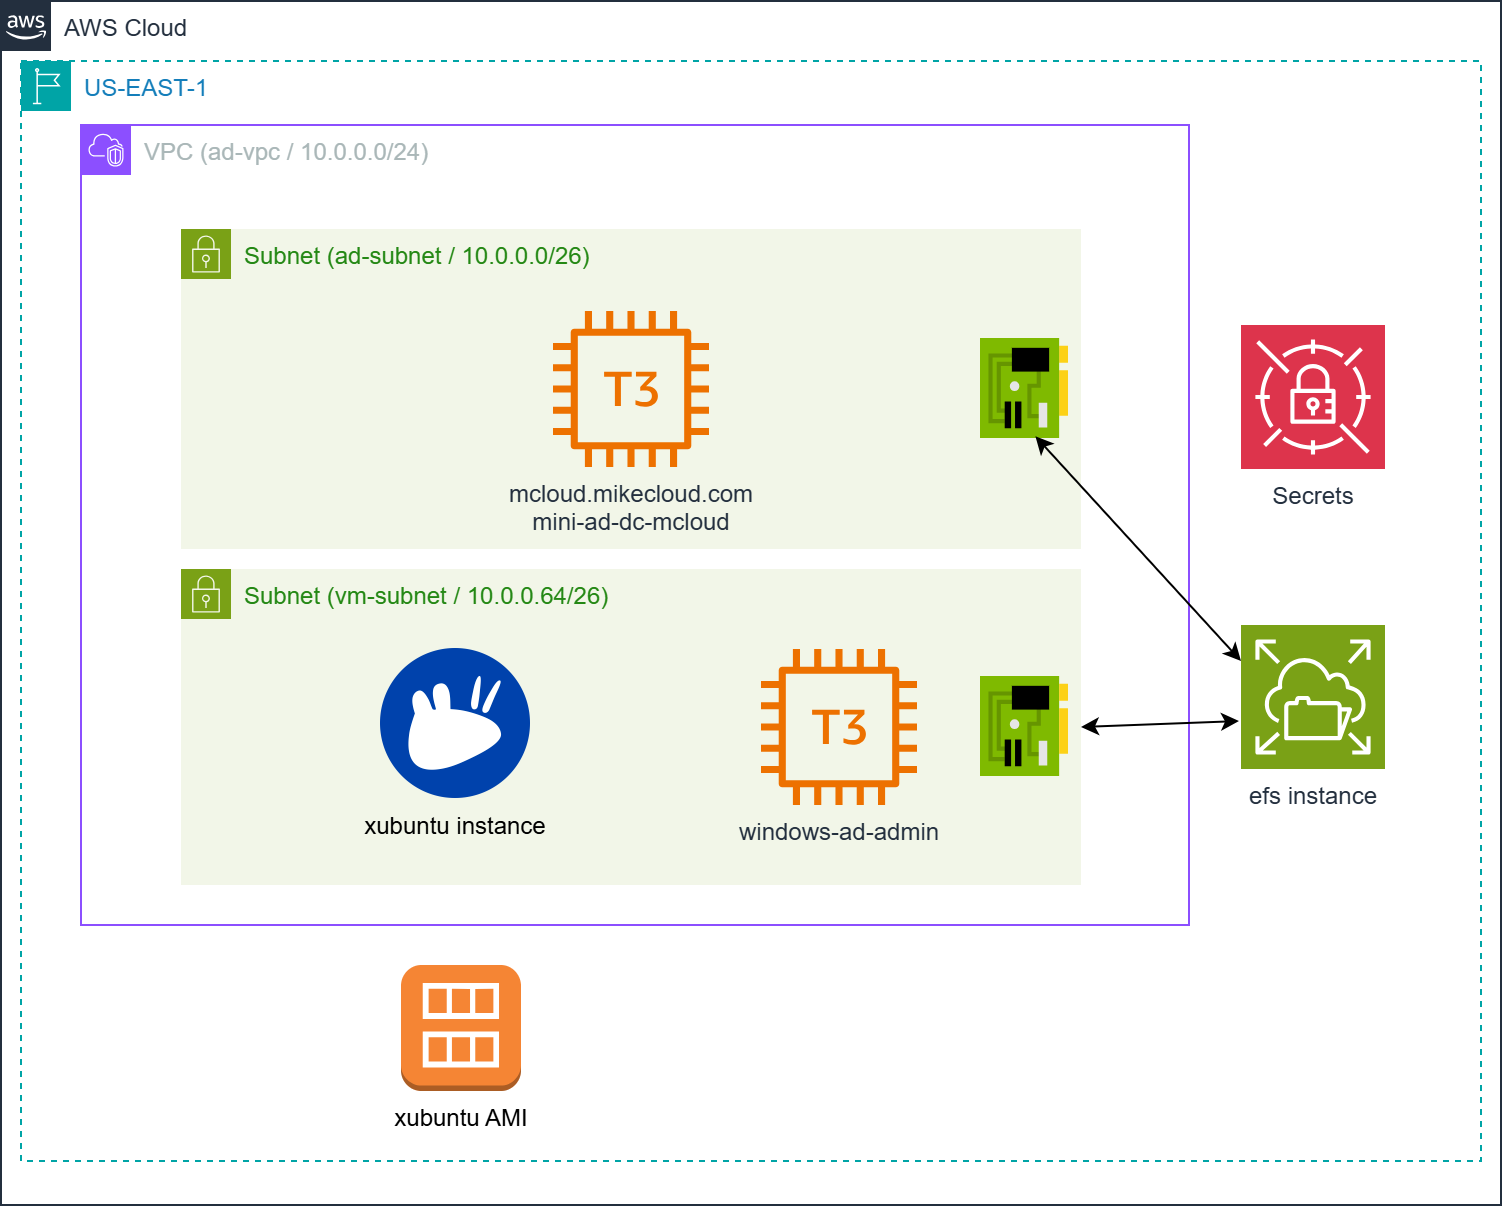
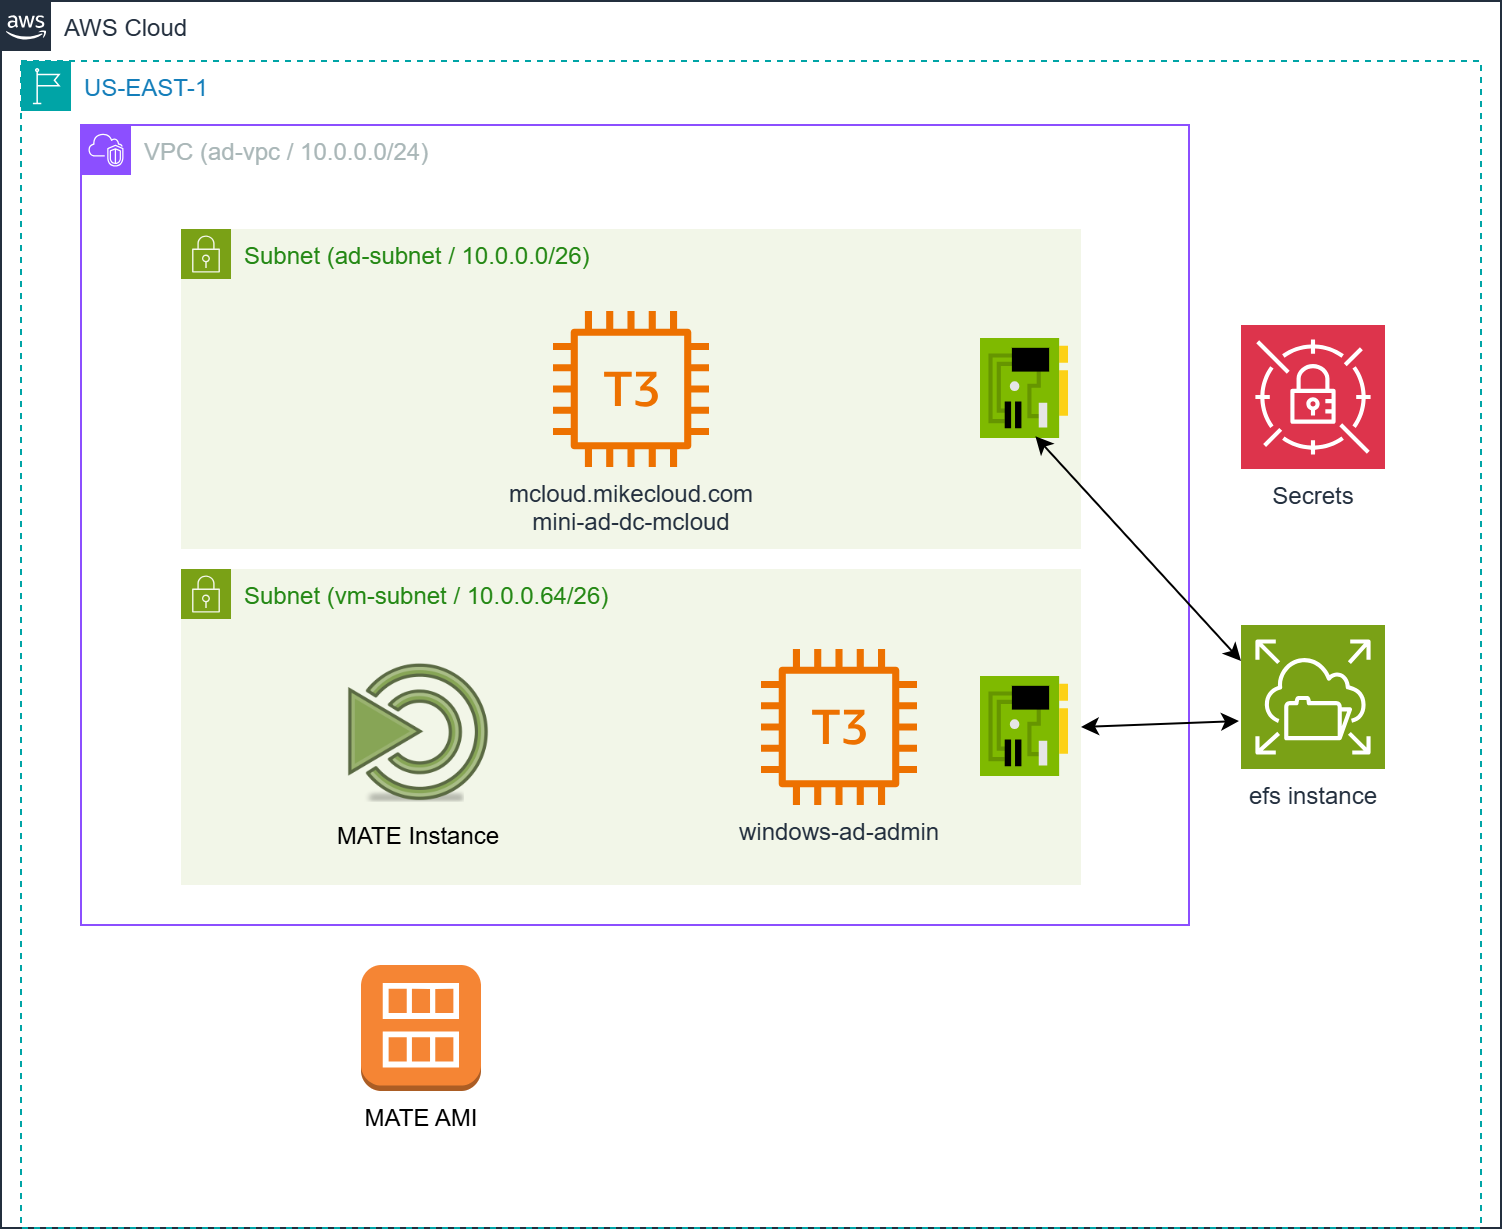
work on documentation

diff --git a/README.md b/README.md
@@ -14,7 +14,7 @@ project, this solution automatically provisions:
    - Preloaded with Chrome, Firefox (deb), VS Code, Docker, KRDC, Postman  
    - Includes all development tooling required across channel projects:  
      **Packer, Terraform, Docker CLI, AWS CLI v2, Azure CLI, Google Cloud CLI**  
-   - Snap-free, clean, lightweight Xfce desktop  
+   - Snap-free, clean, lightweight MATE desktop  
    - XRDP fully configured with all required fixes and defaults  
    - Desktop/panel icons, terminal emulator defaults, `/etc/skel` customizations  
 
@@ -116,7 +116,7 @@ When the deployment completes, the following resources are created:
 
 - **Packer-Built MATE XRDP AMI:**  
   - Custom AMI containing:  
-    - MATE (XFCE), XRDP, Chrome, Firefox (deb), VS Code  
+    - MATE, XRDP, Chrome, Firefox (deb), VS Code  
     - Development tools: **Packer, Terraform, Docker CLI, AWS CLI v2, Azure CLI, Google Cloud CLI**  
     - KRDC, Postman, and all channel-wide prerequisites  
   - `/etc/skel` configured for default desktop icons, terminal emulator, wallpaper  
